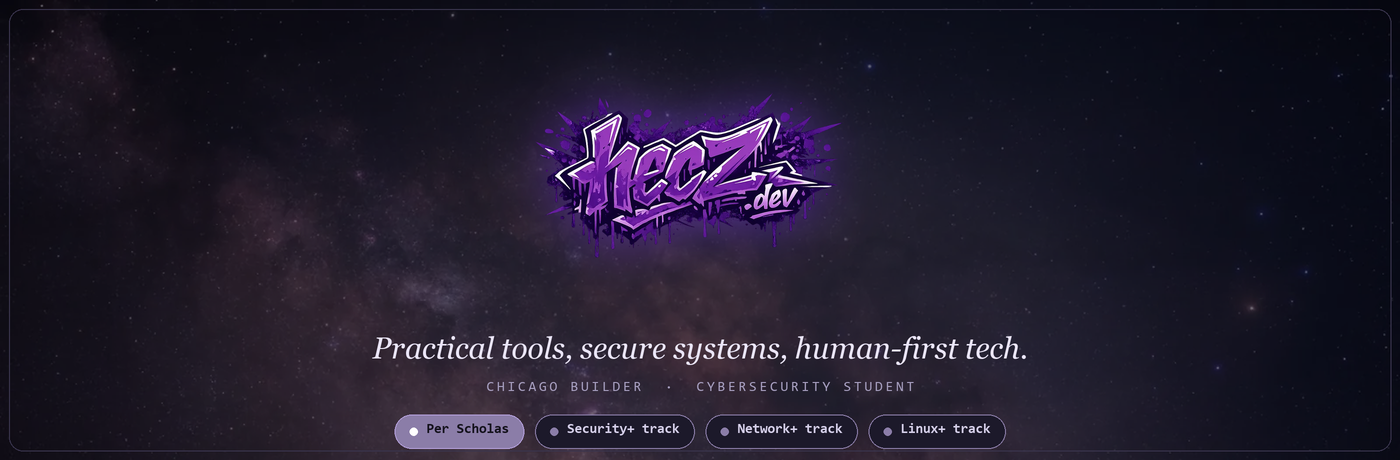
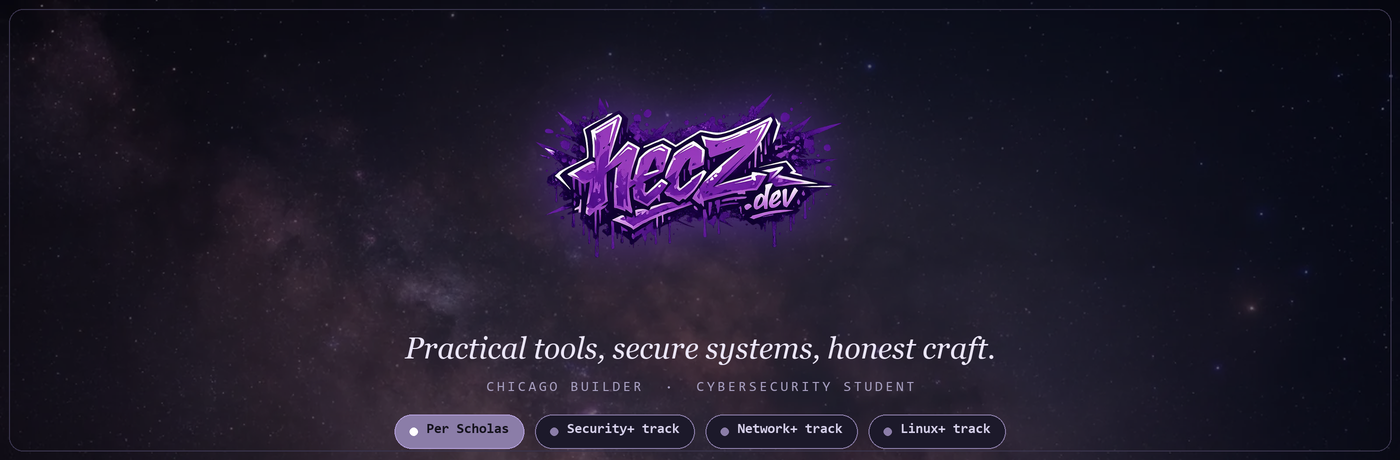
Tagline: human-first tech -> honest craft

Changed region(s): [[0.2457, 0.7304, 0.7371, 0.7913]]

diff --git a/README.md b/README.md
@@ -1,5 +1,5 @@
 <p align="center">
-  <img src="./assets/profile-banner.png" alt="hecz.dev — practical tools, secure systems, human-first tech" width="100%" />
+  <img src="./assets/profile-banner.png" alt="hecz.dev — practical tools, secure systems, honest craft" width="100%" />
 </p>
 
 <p align="center">
